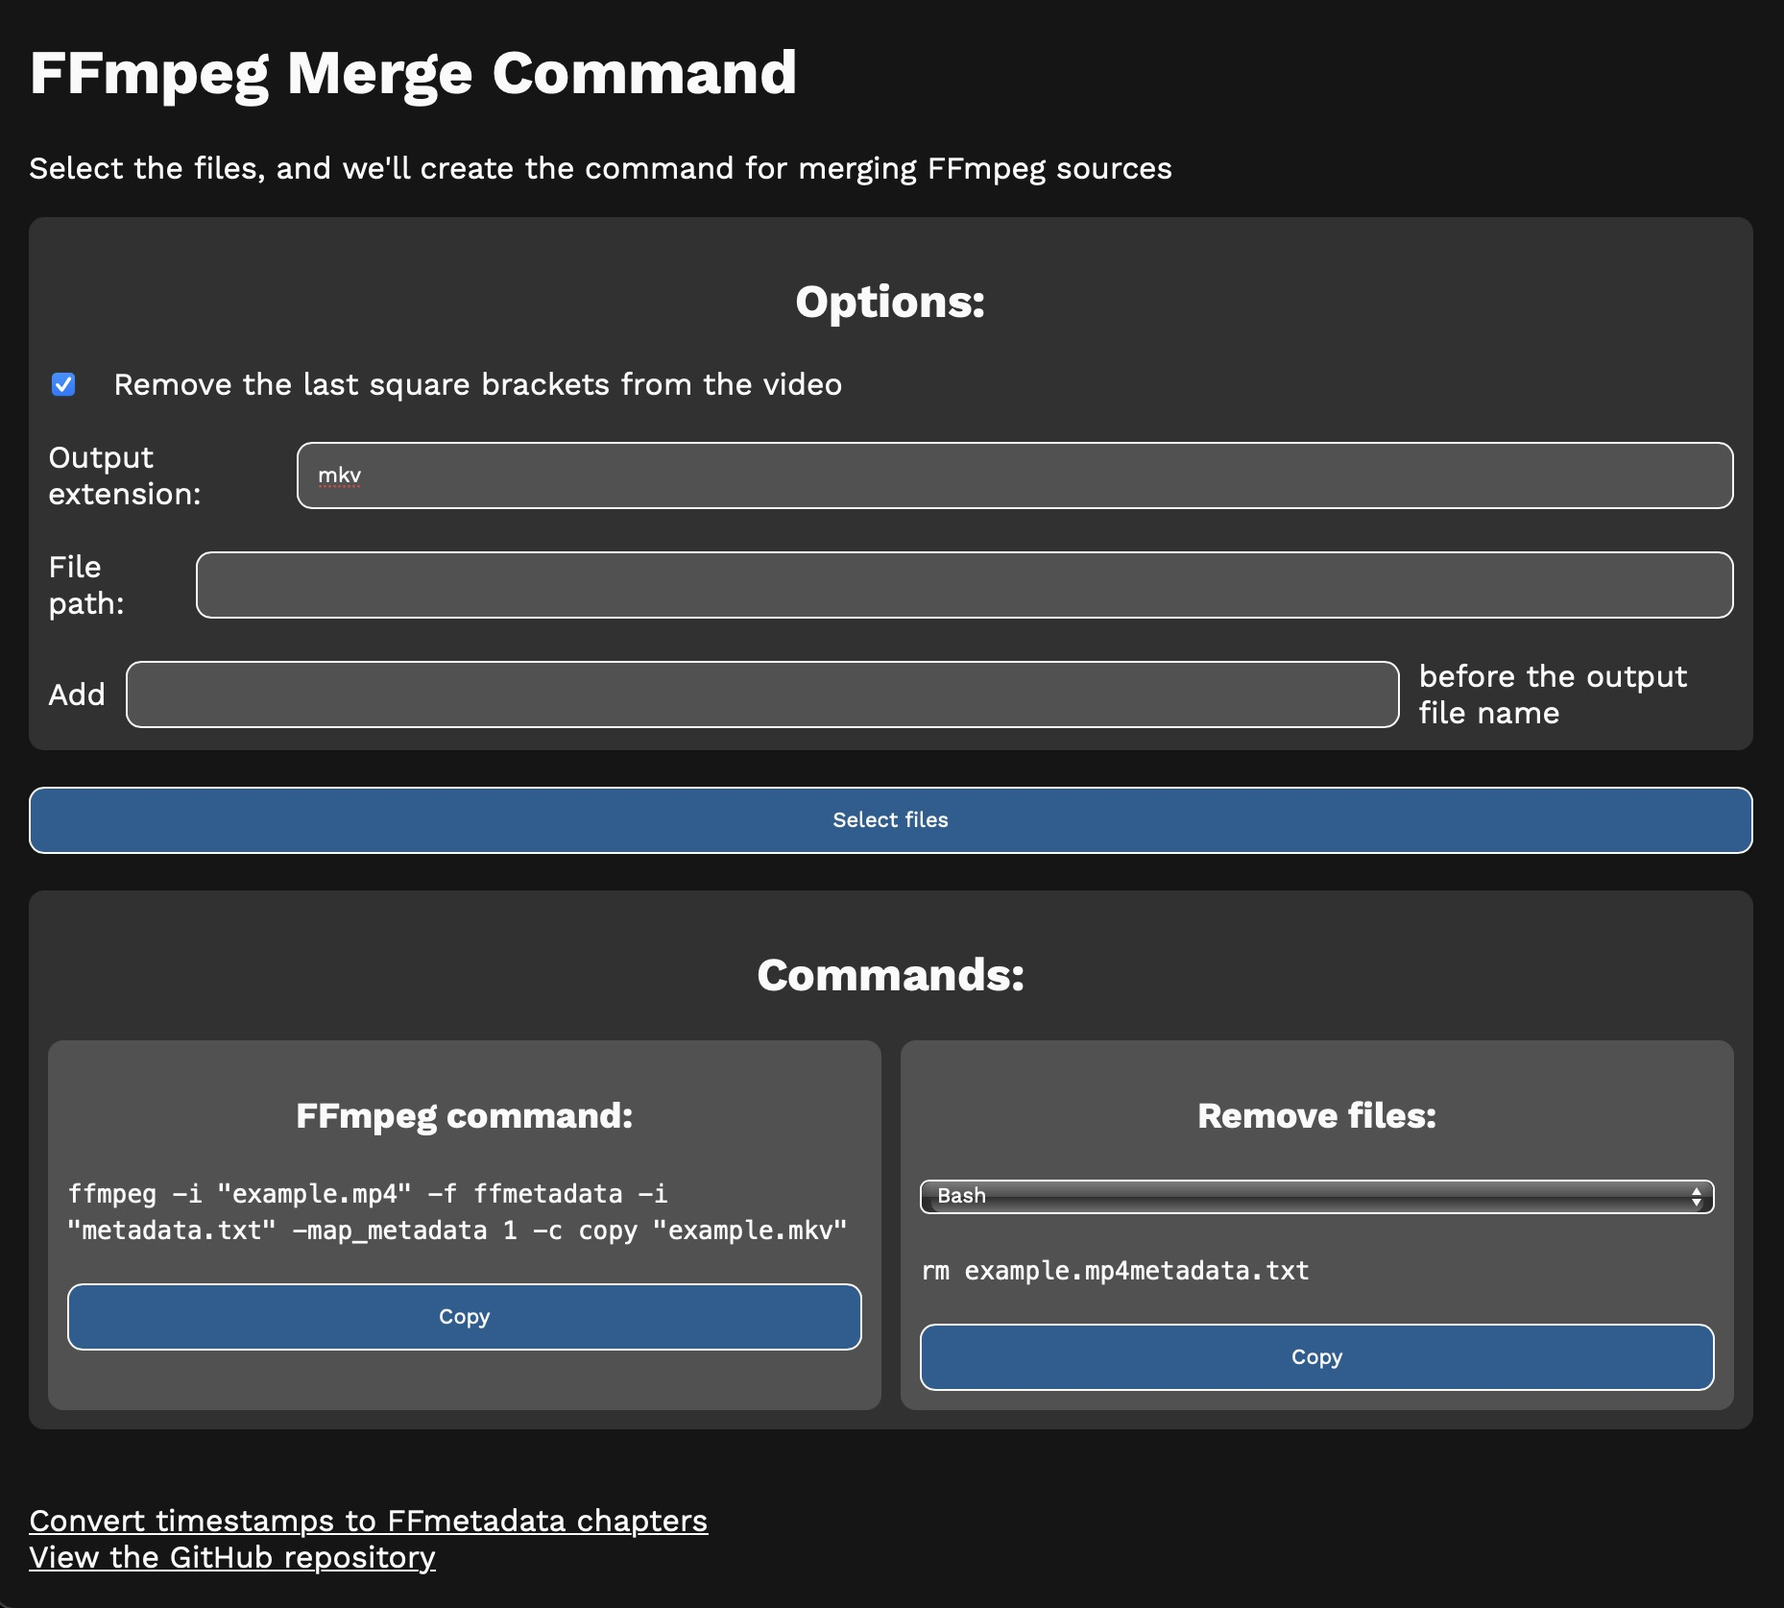
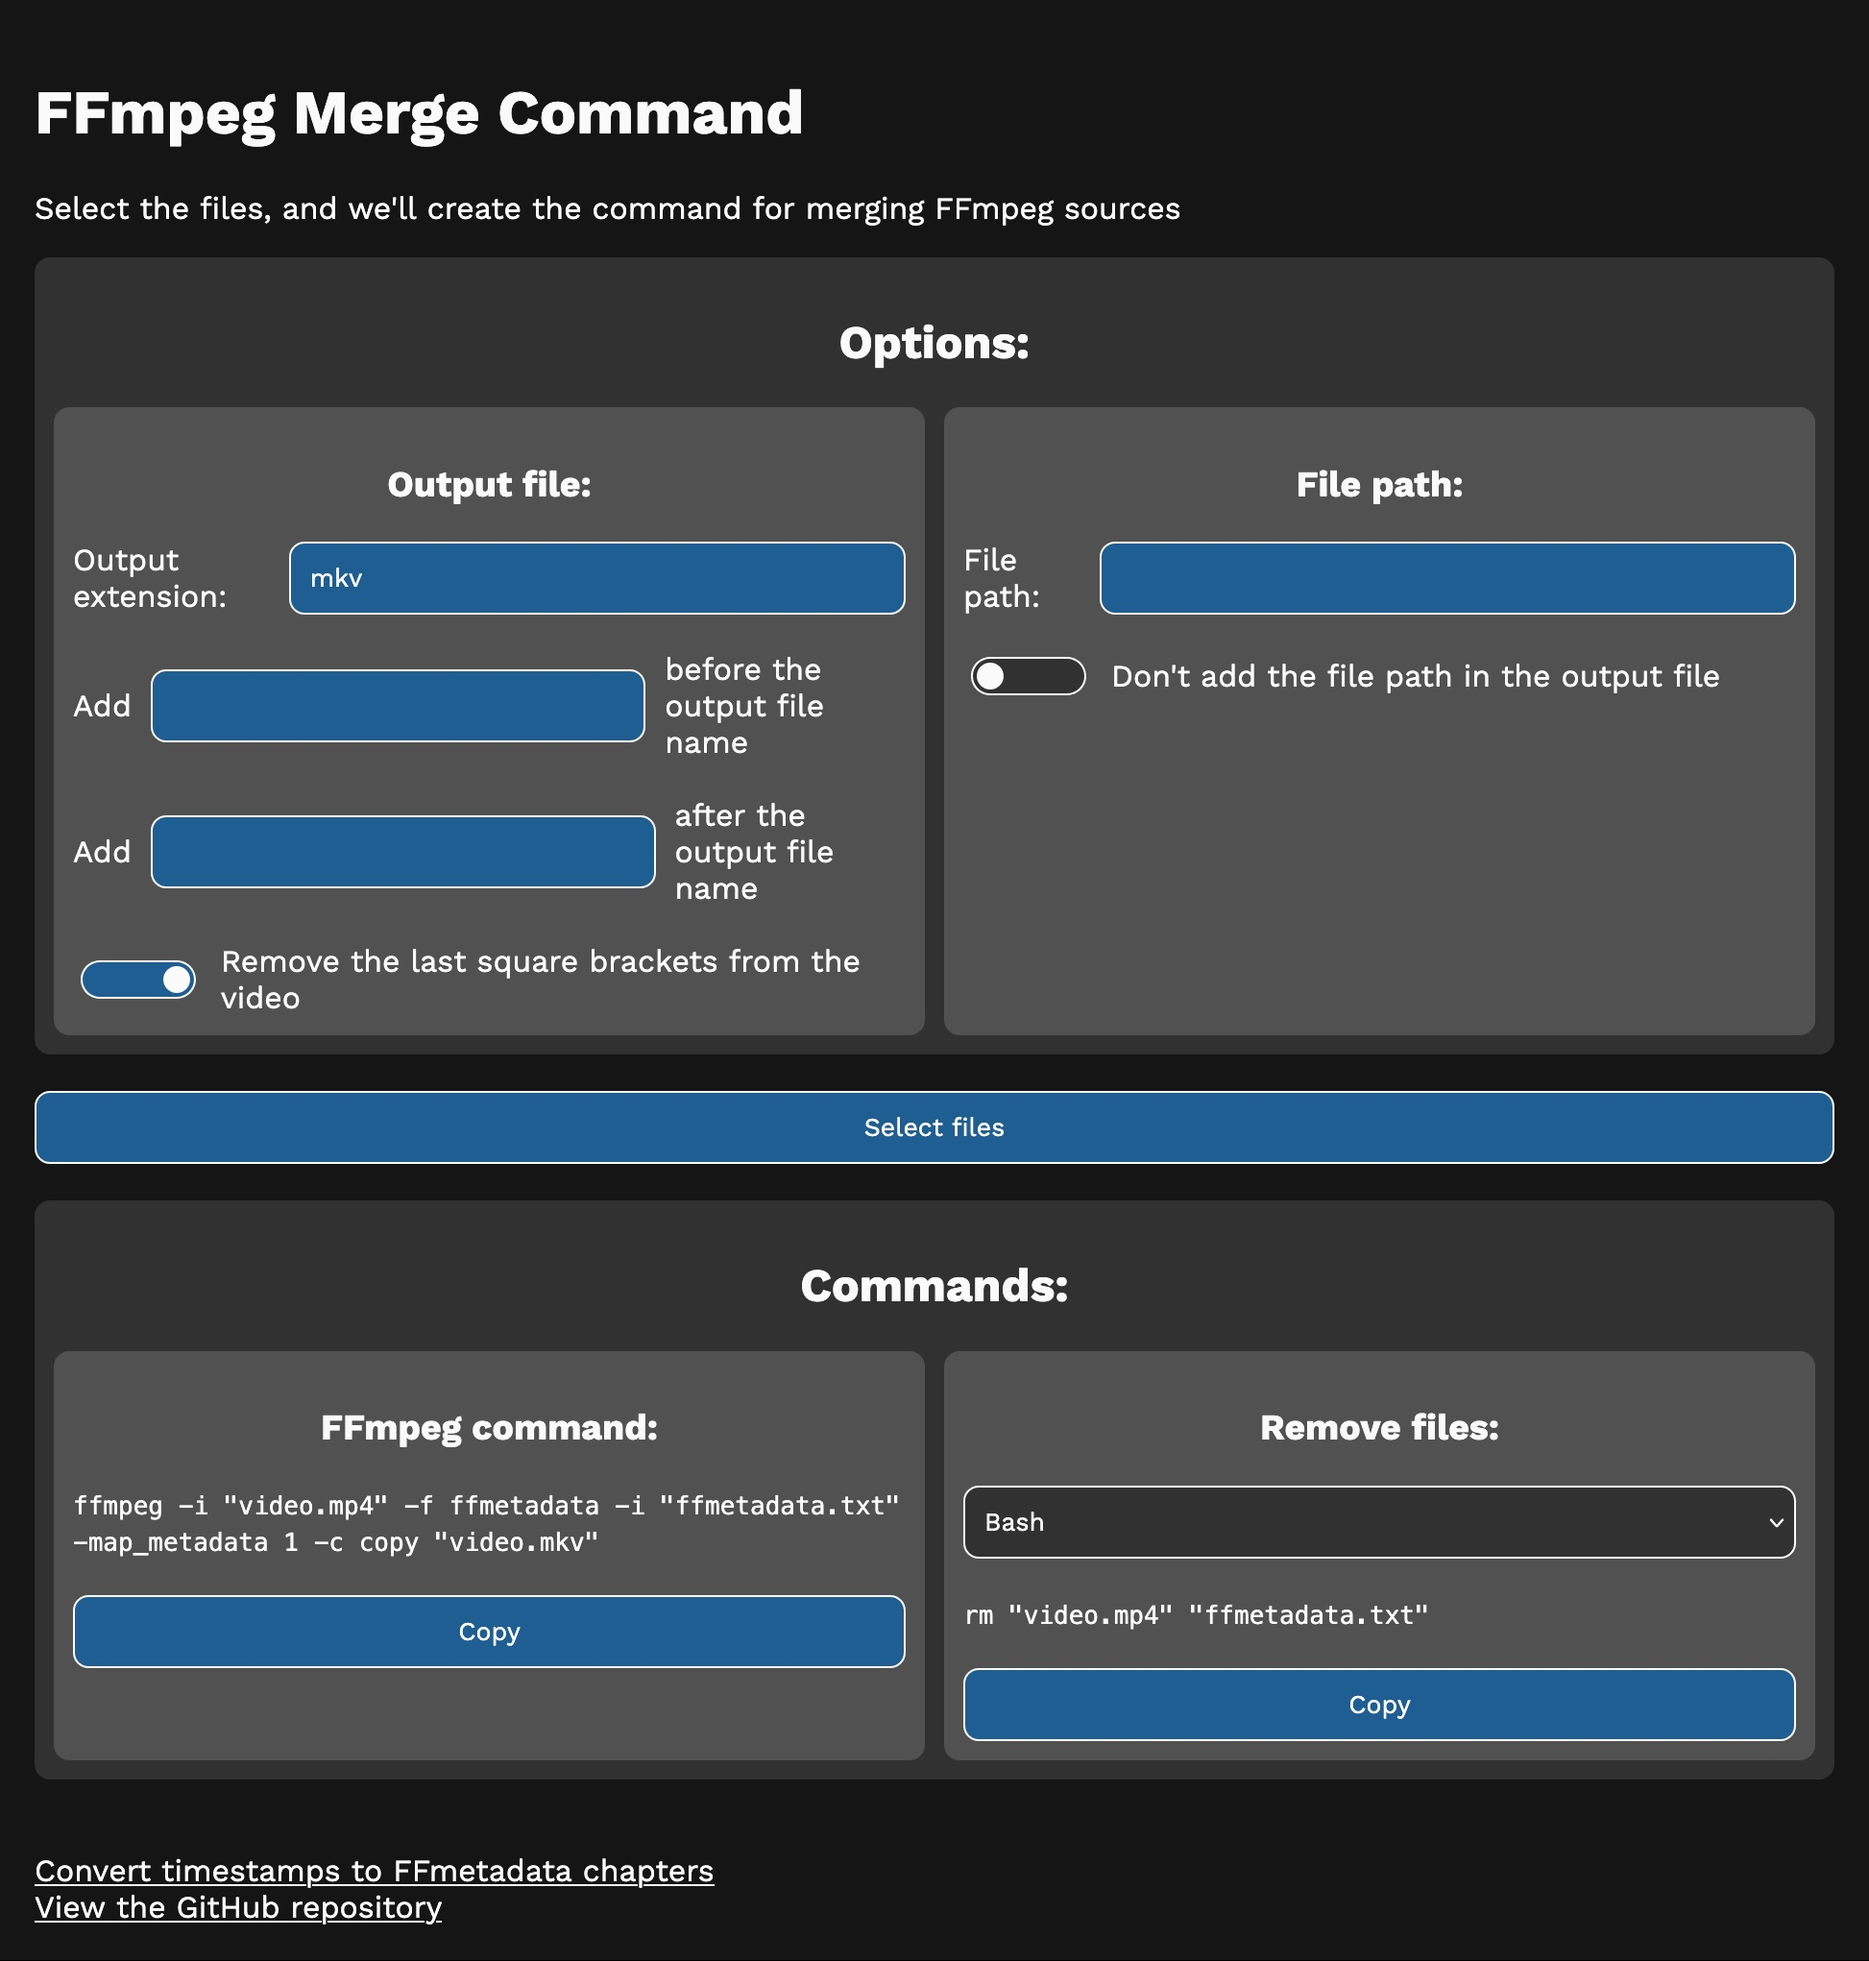
Improved file path handling, improved UI & store settings - It's now possible to exlude the file path for the input files in the output file - You can now add text also after the output file name - Reorganized settings in two cards: the "Output file" one and the "File path" one - Changes to the sett

diff --git a/index.html b/index.html
@@ -34,7 +34,7 @@
             gap: 10px;
         }
 
-        input,
+        input:not([type=checkbox]),
         button,
         select {
             width: 100%;
@@ -59,9 +59,37 @@
 
 
         input[type=checkbox] {
-            margin-right: 10px;
-            width: fit-content;
+            width: 60px;
+            min-width: 60px;
+            appearance: none;
+            border-radius: 12px;
+            background-color: var(--card);
+            height: 20px;
+            position: relative;
+            transition: background-color 0.2s ease-in-out;
+            border: 1px solid var(--text);
         }
+
+        input[type=checkbox]::before {
+            content: "";
+            border-radius: 50%;
+            background-color: var(--text);
+            width: 14px;
+            height: 14px;
+            left: 2px;
+            top: 2px;
+            position: absolute;
+            transition: left 0.2s ease-in-out;
+        }
+
+        input[type=checkbox]:checked {
+            background-color: var(--accent);
+        }
+
+        input[type=checkbox]:checked::before {
+            left: 42px
+        }
+
 
         h2,
         h3 {
@@ -74,9 +102,13 @@
             background-color: var(--card);
         }
 
+        button:hover,
+        input[type=checkbox]:hover {
+            cursor: pointer;
+        }
+
         button:hover {
             filter: brightness(150%);
-            cursor: pointer;
         }
 
         button:active {
@@ -102,16 +134,37 @@
     <p>Select the files, and we'll create the command for merging FFmpeg sources</p>
     <div class="card">
         <h2>Options:</h2>
-        <label>
-            <input type="checkbox" id="noSquare" checked> Remove the last square brackets from the video
-        </label><br>
-        <label>
-            Output extension: <input type="text" value="mkv" id="extension">
-        </label><br>
-        <label>
-            File path: <input type="text" id="filePath">
-        </label><br>
-        <label>Add <input type="text" id="beforeName"> before the output file name</label>
+        <div class="multipleCmdContainer">
+            <div class="card">
+                <h3>Output file:</h3>
+                <label>
+                    Output extension: <input type="text" data-regeneratescript data-savevalue value="mkv"
+                        id="extension">
+                </label><br>
+                <label>Add <input type="text" data-regeneratescript data-savevalue id="beforeName"> before the output
+                    file
+                    name</label><br>
+                <label>Add <input type="text" data-regeneratescript data-savevalue id="afterName"> after the output file
+                    name</label><br>
+                <label>
+                    <input type="checkbox" id="noSquare" data-savevalue data-regeneratescript checked> Remove the last
+                    square
+                    brackets from the video
+                </label>
+            </div>
+            <div class="card">
+                <h3>File path:</h3>
+                <label>
+                    File path: <input data-savevalue data-regeneratescript type="text" id="filePath">
+                </label><br>
+                <label>
+                    <input type="checkbox" id="noPathInOutput" data-savevalue data-regeneratescript> Don't add the file
+                    path
+                    in
+                    the output file
+                </label>
+            </div>
+        </div>
     </div><br>
     <button id="select">Select files</button><br><br>
     <div id="resultDiv" style="display: none;">
@@ -125,7 +178,7 @@
                 </div>
                 <div class="card">
                     <h3>Remove files:</h3>
-                    <select id="cmdType">
+                    <select id="cmdType" data-savevalue>
                         <option value="bash">Bash</option>
                         <option value="powershell">Powershell</option>
                         <option value="cmd">Windows CMD</option>
@@ -141,6 +194,7 @@
     <a target="_blank" href="https://github.com/dinoosauro/ffmpeg-merge-command">View the GitHub repository</a>
     <script>
         (() => {
+            let isFileSelected = false;
             if (navigator.platform === "Win32") document.getElementById("cmdType").value = "cmd";
             function adaptQuotationMarks(str) {
                 return str.replace(/\"/g, `\\"`);
@@ -154,6 +208,7 @@
                 multiple: true,
                 onchange: function (e) {
                     filesToRemoveList = [];
+                    isFileSelected = true;
                     const filePath = adaptQuotationMarks(document.getElementById("filePath").value);
                     const [fileItems, textItems] = [[], []];
                     document.getElementById("resultDiv").style.display = "block";
@@ -175,15 +230,25 @@
                     str += " -c copy";
                     let outputName = fileItems[0].substring(0, fileItems[0].lastIndexOf("."));
                     if (document.getElementById("noSquare").checked && outputName.indexOf("[") !== -1) outputName = outputName.substring(0, outputName.lastIndexOf("[")).trim();
-                    str += ` "${filePath}${adaptQuotationMarks(`${document.getElementById("beforeName").value}${outputName}.${document.getElementById("extension").value}`)}"`;
+                    str += ` "${document.getElementById("noPathInOutput").checked ? "" : filePath}${adaptQuotationMarks(`${document.getElementById("beforeName").value}${outputName}${document.getElementById("afterName").value}.${document.getElementById("extension").value}`)}"`;
                     document.getElementById("command").textContent = str;
                     updateRemoveCommand();
                 }
             })
             document.getElementById("select").onclick = () => input.click();
-            for (const settingId of ["filePath", "extension", "noSquare", "beforeName"]) document.getElementById(settingId).onchange = () => input.dispatchEvent(new Event("change"));
-            document.getElementById("cmdType").onchange = () => updateRemoveCommand();
+            for (const regenerateScript of document.querySelectorAll("[data-regeneratescript]")) {
+                for (const eventType of ["input", "change"]) regenerateScript.addEventListener(eventType, () => isFileSelected && input.dispatchEvent(new Event("change")));
+            }
+            document.getElementById("cmdType").addEventListener("change", () => updateRemoveCommand());
             for (const item of document.querySelectorAll("[data-copy]")) item.onclick = () => navigator.clipboard.writeText(document.getElementById(item.getAttribute("data-copy")).textContent);
+            const settings = JSON.parse(localStorage.getItem("FFmpegMerge-Settings") ?? "{}");
+            for (const item of document.querySelectorAll("[data-savevalue]")) {
+                if (typeof settings[item.id] !== "undefined") item[item.type === "checkbox" ? "checked" : "value"] = settings[item.id];
+                item.addEventListener("change", () => {
+                    settings[item.id] = item[item.type === "checkbox" ? "checked" : "value"];
+                    localStorage.setItem("FFmpegMerge-Settings", JSON.stringify(settings));
+                })
+            }
         })()
     </script>
 </body>

diff --git a/README.md b/README.md
@@ -10,25 +10,39 @@ Website URL: https://dinoosauro.github.io/ffmpeg-merge-command/
 
 ## Options
 
-When you open the webpage, you will be prompted:
+When you open the webpage, you'll immediately see two sections in the "Options"
+card.
 
-- If you want to remove the last square brackets from the output file name. The
-  reason for this is that I needed it, nothing else.
+### Output file:
+
+In this section you can customize:
+
 - The output extension of the file. You can choose whatever you want, as long as
   the container actually supports both the video and the audio codec. Keeping
   `mkv` is a safe option.
+- The text to add before (or after) the output file name.
+- If you want to remove the last square brackets from the output file name. The
+  reason for this is that I needed it, nothing else.
+
+### File path:
+
+In this section you can customize:
+
 - The file path of the selected files: for example, if they are on
   `/Users/HelloWorld/Downloads/`, write this path so that FFmpeg can find them
   even if you are not in the same folder in the terminal.
+- If you want to add the file path in the output file name.
 
 Then, select the files and the script will be generated. You can copy the output
 with the button.
 
-## Privacy
+## Privacy
 
 Everything is elaborated locally, and nothing is sent to an external server. You
 can use this webpage offline by downloading the HTML source code (the "Work
 Sans" font won't be loaded, but everything else will work fine).
+
+Settings are saved locally on your device.
 
 ## Screenshots
 
